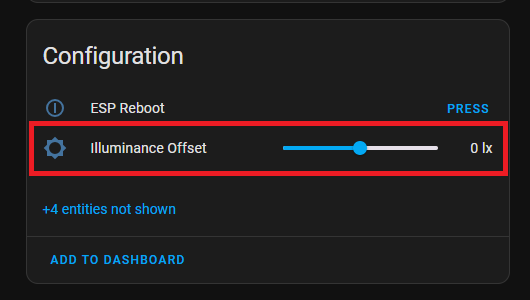
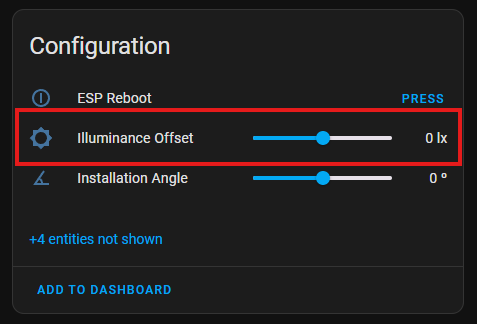
Add installation angle to documentation

diff --git a/static/Home Assistant/home-assistant-entities.md b/static/Home Assistant/home-assistant-entities.md
@@ -56,6 +56,12 @@ Distance allows you to adjust the max range of the sensor, up to a maximum of 6m
 
 ![Home Assistant mmWave distance Entity](../images/home-assistant-entities-mmwave-distance.jpg)
 
+### Installation Angle
+
+If you find that the best placement for the Everything Presence Lite is not parallel to a wall, you can set the installation angle. This will allow the placement in corners, keeping the zones aligned with the walls of the division.
+
+![Home Assistant mmWave distance Entity](../images/home-assistant-entities-angle-controls.png)
+
 ### Zones
 
 The Everything Presence Lite also supports zones, which allow you to define a space in a room that when a target (person) walks into, the sensor can detect that and let you run automations based on which zone a person is in. The Everything Presence Lite supports up to 4 individual zones.
